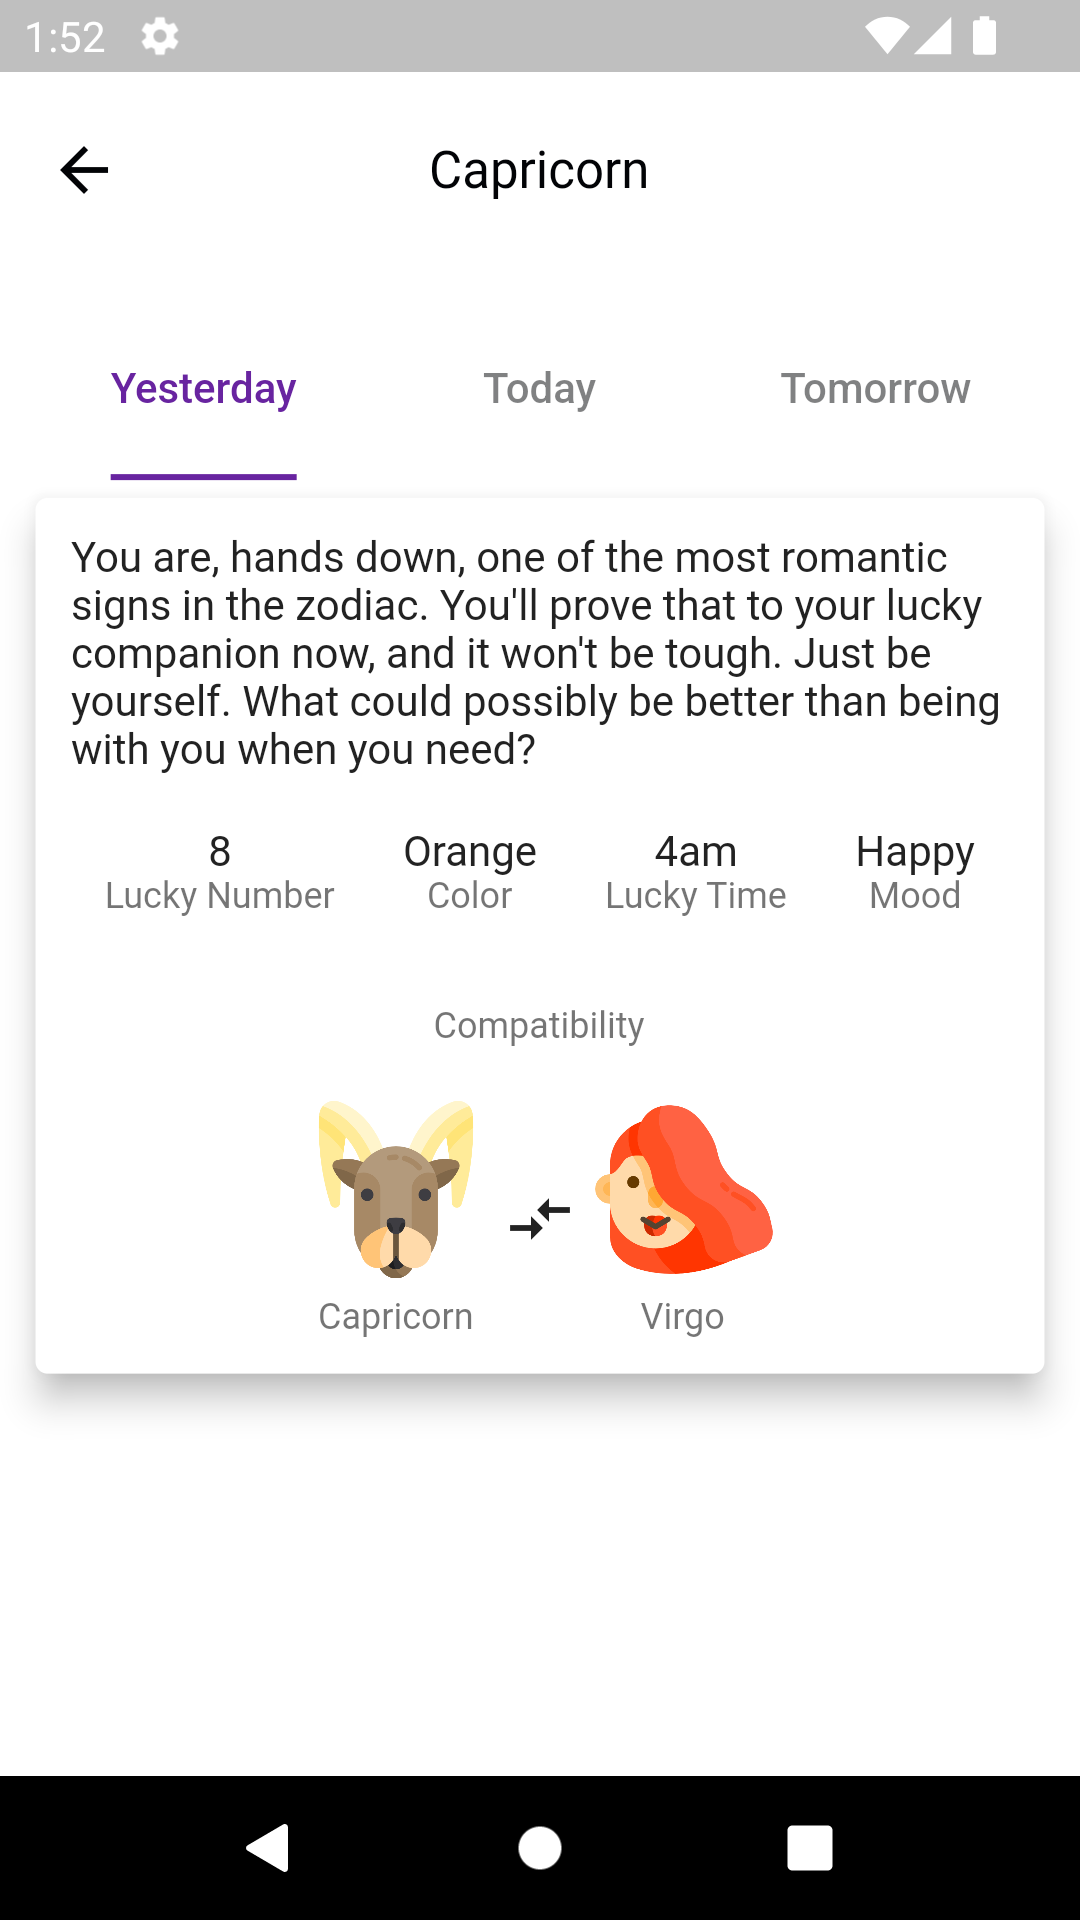
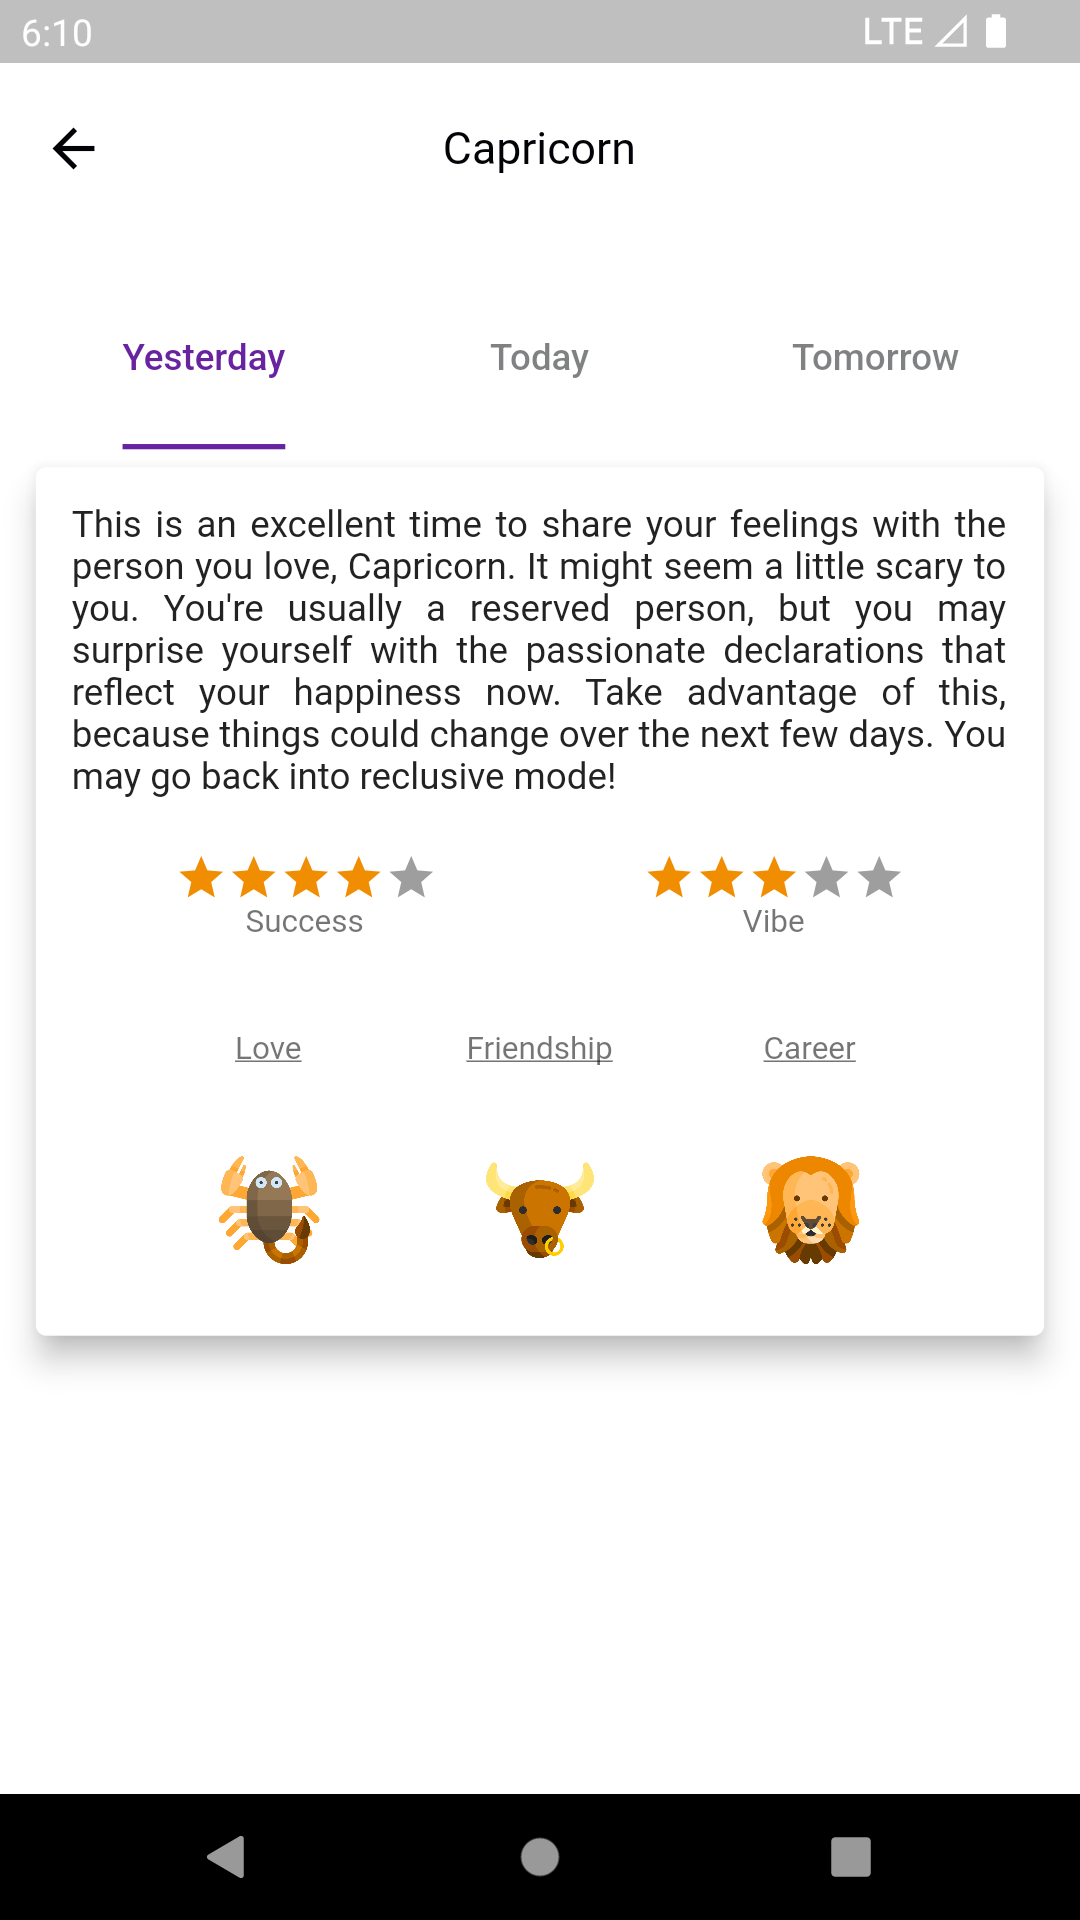
docs: update readme api doc and images

diff --git a/README.md b/README.md
@@ -20,10 +20,8 @@ It is a flutter application where you can follow daily horoscope information.
 
 
 ## Horoscope API
-100% Free & Open-source Horoscope API
-- [Aztro API](https://aztro.sameerkumar.website) 
-- [Aztro API Github](https://github.com/sameerkumar18/aztro) 
 
+Since the previously used Open Source API is no longer accessible, I have to continue with a new private API. Thanks for your understanding.
 
 ## Screenshots
 <table>
